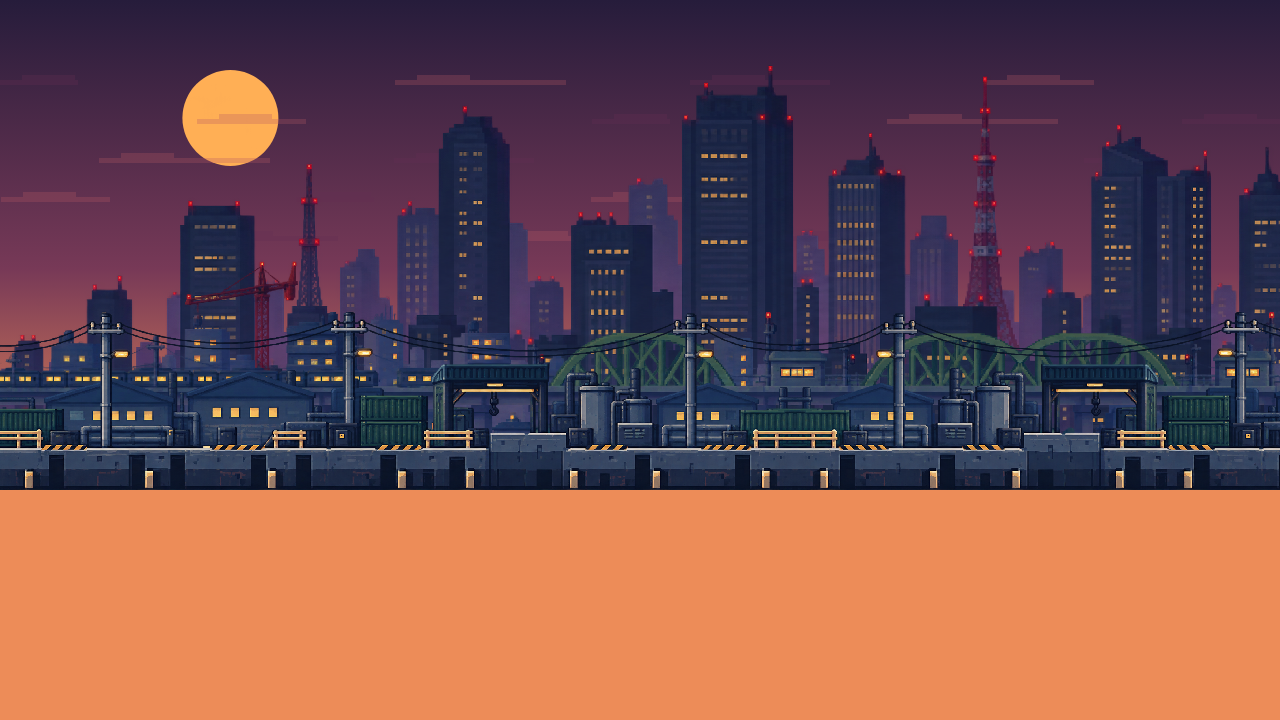
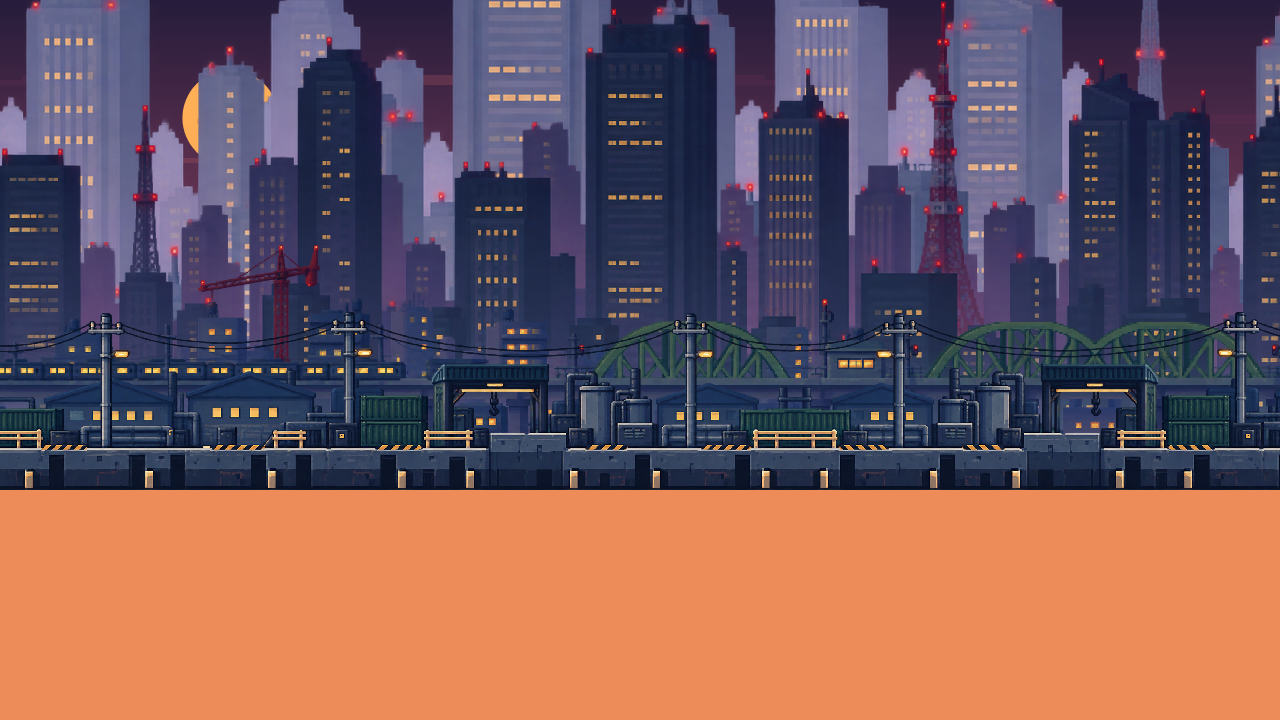
调整画面风格

diff --git a/godzilla-pet/tv/tv-skins.css b/godzilla-pet/tv/tv-skins.css
@@ -1,0 +1,45 @@
+/* Recessed pixel-metal television, based on the supplied neon cabinet. */
+.skin-extra-buttons,.skin-right{display:none}
+.tv-skin-settings{grid-column:1/-1}.tv-skin-options{display:grid;grid-template-columns:repeat(2,minmax(0,1fr));gap:14px}.tv-skin-options button{padding:14px;background:#14213a;border:2px solid #526781;color:#e7e7ef;cursor:pointer;text-align:left}.tv-skin-options button[aria-pressed=true]{border-color:#ff458e;box-shadow:inset 0 0 0 2px #792554}.tv-skin-options b,.tv-skin-options small{display:block;margin-top:8px}.tv-skin-options small{font-size:12px;color:#a8b9cf}.skin-preview{display:block;height:85px;background:#203755;border:5px solid #536c8a;position:relative;box-shadow:inset 0 0 0 3px #101b2e}.skin-preview span{position:absolute;inset:10px 20px;background:linear-gradient(#34224e,#bd496e);border:5px solid #071322}.skin-preview.neon{border-top-color:#f63b8b;border-bottom-color:#eb3783}.skin-preview.neon:after{content:'';position:absolute;width:11px;height:11px;right:1px;top:20px;background:#93a4c1;box-shadow:0 23px #8194b4}.skin-preview.classic{border-color:#7c7586;border-top-color:#dfc16c}
+html[data-tv-skin=neon]:not(.panel-view) .tv-cabinet{position:relative;padding:22px 14px 16px;border:6px solid #0a1120;border-radius:28px;background:linear-gradient(90deg,#29435f,#1e314d 18%,#304764 50%,#1d304c 82%,#35506e);box-shadow:inset 0 5px #718eac,inset 0 12px #456583,inset 7px 0 #54789c,inset -7px 0 #54789c,inset 0 -7px #0e1a2f,0 5px 0 5px #080d19,0 12px 0 4px #17243b;isolation:isolate}
+html[data-tv-skin=neon]:not(.panel-view) .tv-cabinet:before{content:'';position:absolute;left:27%;right:27%;top:-16px;height:12px;border:4px solid #090e1e;background:#f42a85;box-shadow:inset 0 3px #ff82b9,inset 0 -3px #971a5c,0 -4px #3d2044;z-index:1}
+html[data-tv-skin=neon]:not(.panel-view) .tv-cabinet:after{inset:0;border:0;border-radius:20px;background:linear-gradient(#ff328f,#d52e7a) left top/20px 30px no-repeat,linear-gradient(#ff328f,#d52e7a) right top/20px 30px no-repeat,linear-gradient(#ff328f,#d52e7a) left bottom/20px 30px no-repeat,linear-gradient(#ff328f,#d52e7a) right bottom/20px 30px no-repeat;box-shadow:none}
+html[data-tv-skin=neon]:not(.panel-view) .tv-brand{height:17px;min-height:17px;padding:0;position:relative}
+html[data-tv-skin=neon]:not(.panel-view) .brand-mark{display:none}
+html[data-tv-skin=neon]:not(.panel-view) .tv-brand:before{content:'';position:absolute;left:12px;top:-4px;width:58px;height:9px;background:#ff368d;border:3px solid #0a1224;box-shadow:inset 0 2px #ff9ecb,-10px 0 #64e9ff}
+html[data-tv-skin=neon]:not(.panel-view) .tv-body{gap:12px;align-items:stretch}
+html[data-tv-skin=neon]:not(.panel-view) #playerFrame{padding:20px 14px;border:5px solid #071326;border-radius:14px;background:#061020;box-shadow:0 0 0 3px #526f93,0 0 0 7px #14283f,inset 4px 5px #1a304e,inset -4px -5px #203b5b}
+html[data-tv-skin=neon]:not(.panel-view) .broadcast{border-radius:1px;box-shadow:0 0 0 5px #020813}
+html[data-tv-skin=neon]:not(.panel-view) .tv-sidebar{width:94px;flex:0 0 94px;gap:11px;padding:10px 5px 4px;border:0;background:transparent;box-shadow:none;display:flex;flex-direction:column}
+html[data-tv-skin=neon]:not(.panel-view) .side-title,html[data-tv-skin=neon]:not(.panel-view) .tv-knobs{display:none}
+html[data-tv-skin=neon]:not(.panel-view) .side-group{padding:0;margin:0;gap:0;display:block}
+html[data-tv-skin=neon]:not(.panel-view) .chunky,html[data-tv-skin=neon]:not(.panel-view) .skin-extra-buttons button{width:100%;min-height:84px;padding:5px 3px;border:4px solid #050d1a;border-radius:3px;outline:2px solid #577496;background:linear-gradient(120deg,#29466a,#152640);box-shadow:inset 3px 4px #6684a5,inset -3px -4px #101b2d;display:flex;flex-direction:column;gap:3px;align-items:center;justify-content:center;color:#e9e9ee;font-size:19px;font-weight:bold;cursor:pointer}
+html[data-tv-skin=neon]:not(.panel-view) #open-assign{background:linear-gradient(135deg,#b42a69,#712153);outline-color:#ff73b0;box-shadow:inset 3px 4px #f879b3,inset -3px -4px #4f193d}
+html[data-tv-skin=neon]:not(.panel-view) #chan-cycle{outline-color:#59eeff;box-shadow:inset 3px 4px #4aa8bd,inset -3px -4px #102539}
+html[data-tv-skin=neon]:not(.panel-view) .pb-ico,html[data-tv-skin=neon]:not(.panel-view) #chan-cycle>b,html[data-tv-skin=neon]:not(.panel-view) .skin-extra-buttons button>span{font-size:32px;width:auto;height:auto;line-height:1.1}
+html[data-tv-skin=neon]:not(.panel-view) .skin-extra-buttons{display:flex;flex-direction:column;gap:12px;flex:1}
+.skin-speaker-grid{height:60px;min-height:40px;margin-top:auto;background:repeating-linear-gradient(90deg,transparent 0 8px,#29415e 8px 16px),repeating-linear-gradient(#030d20 0 7px,#59718c 7px 9px,#29415e 9px 16px)}
+html[data-tv-skin=neon]:not(.panel-view) .skin-right{display:flex;flex:0 0 88px;align-items:center;flex-direction:column;gap:16px;padding:6px 4px;background:linear-gradient(90deg,#233b59,#344e6e);box-shadow:inset -3px 0 #182e48}
+.skin-right button{-webkit-app-region:no-drag;cursor:pointer}.skin-power-lamp{width:45px;height:14px;border:4px solid #0c1628;background:#ec2680;box-shadow:inset 2px 3px #ff8bbc}.skin-square{width:36px;height:34px;background:#e92b89;border:4px solid #080f20;box-shadow:inset 2px 3px #ff8bbd,inset -3px -3px #941b57;margin:6px 0}
+.skin-dial{width:70px;height:70px;position:relative;border:5px solid #050e1c;border-radius:50%;background:linear-gradient(100deg,#48658a,#8fa6c4 30%,#344f75 44%,#1e3352);box-shadow:inset 3px 3px #adc2d8,4px 0 #12213b,-4px 0 #536f91;margin:0 0 6px}
+.skin-dial:before{content:'';position:absolute;width:8px;height:24px;background:#ff3695;left:26px;top:-7px;box-shadow:0 -8px #71234c}.skin-dial:after{content:'';position:absolute;width:12px;height:35px;border:3px solid #07111f;left:21px;top:23px;background:linear-gradient(90deg,#98acca,#4c6b94);box-shadow:inset 2px 1px #b9c8e0}.skin-dial:active{transform:rotate(18deg)}
+.skin-speaker-slots{width:66px;flex:1;min-height:86px;max-height:128px;background:repeating-linear-gradient(#050e1d 0 8px,#66809d 8px 10px,#243b5a 10px 18px);border-left:3px solid #142943;border-right:3px solid #142943}
+.skin-trio{display:flex;gap:4px;margin-top:auto;padding-bottom:6px}.skin-trio i{height:22px;width:17px;background:#6383a9;border:3px solid #0a1526;box-shadow:inset 2px 2px #acc4dc}.skin-trio i:first-child{background:#ed328b;box-shadow:inset 2px 2px #ff99c3}
+html[data-tv-skin=neon]:not(.panel-view) footer{height:20px;min-height:20px;margin-top:14px;position:relative;background:none!important;border:0;box-shadow:none}
+html[data-tv-skin=neon]:not(.panel-view) footer>span{display:none}
+html[data-tv-skin=neon]:not(.panel-view) footer:before{content:'';position:absolute;left:39%;right:39%;top:0;height:20px;background:linear-gradient(#7890ad,#293e5c);border:4px solid #101b2f;box-shadow:0 3px #061120}
+html[data-tv-skin=neon]:not(.panel-view) footer:after{content:'';position:absolute;left:44%;right:44%;top:7px;height:9px;background:#f2308a;box-shadow:0 0 0 3px #081220,inset 0 2px #ff9ac7}
+html[data-tv-skin=neon]:not(.panel-view) .skin-extra-buttons button:focus-visible,html[data-tv-skin=neon]:not(.panel-view) .skin-right button:focus-visible{outline:3px solid #ffe49a;outline-offset:3px}
+/* Stepped hardware edges follow the pixel silhouette in the reference. */
+html[data-tv-skin=neon]:not(.panel-view) .skin-dial{border-radius:0;clip-path:polygon(26% 0,74% 0,74% 6%,87% 6%,87% 14%,94% 14%,94% 27%,100% 27%,100% 73%,94% 73%,94% 86%,87% 86%,87% 94%,74% 94%,74% 100%,26% 100%,26% 94%,13% 94%,13% 86%,6% 86%,6% 73%,0 73%,0 27%,6% 27%,6% 14%,13% 14%,13% 6%,26% 6%)}
+html[data-tv-skin=neon]:not(.panel-view) .skin-right,html[data-tv-skin=neon]:not(.panel-view) .skin-extra-buttons{-webkit-app-region:no-drag}
+.skin-feet{display:none}html[data-tv-skin=neon]:not(.panel-view) .skin-feet{display:block;position:absolute;bottom:-22px;left:0;right:0;height:18px;pointer-events:none;z-index:-1}.skin-feet:before,.skin-feet:after{content:'';position:absolute;bottom:0;width:82px;height:18px;border:5px solid #080f1c;background:linear-gradient(90deg,#101f34,#284668 48%,#122139);box-shadow:0 3px #11192c}.skin-feet:before{left:5%}.skin-feet:after{right:5%}
+/* Original reference crop: fixed artwork with separate accessible hit regions. */
+html[data-tv-skin=neon]:not(.panel-view) .skin-right{position:relative;display:block;padding:0;gap:0;background:var(--neon-right-controls) center/100% 100% no-repeat;box-shadow:none;image-rendering:pixelated;flex:0 0 88px}
+html[data-tv-skin=neon]:not(.panel-view) .skin-right>.skin-power-lamp,html[data-tv-skin=neon]:not(.panel-view) .skin-right>.skin-speaker-slots,html[data-tv-skin=neon]:not(.panel-view) .skin-right>.skin-trio{display:none}
+html[data-tv-skin=neon]:not(.panel-view) .skin-right>button{position:absolute;display:block;margin:0;padding:0;border:0;border-radius:0;clip-path:none;box-shadow:none;background:transparent;transform:none;width:94%;height:18%;left:3%;top:21%;min-width:0;min-height:0}
+html[data-tv-skin=neon]:not(.panel-view) .skin-right>button:before,html[data-tv-skin=neon]:not(.panel-view) .skin-right>button:after{content:none}
+html[data-tv-skin=neon]:not(.panel-view) .skin-right>.skin-square{left:27%;top:10.6%;width:45%;height:7.5%}
+html[data-tv-skin=neon]:not(.panel-view) .skin-right>.sound-dial{top:41.8%;height:18%}
+html[data-tv-skin=neon]:not(.panel-view) .skin-right>button:hover{background:#9beaff0a}
+html[data-tv-skin=neon]:not(.panel-view) .skin-right>button:active{background:#ff499226}

diff --git a/godzilla-pet/main.js b/godzilla-pet/main.js
@@ -17,7 +17,7 @@ const { app, BrowserWindow, ipcMain, Menu, Tray, screen, shell, dialog, nativeIm
 const path = require('node:path');
 const fs = require('node:fs');
 
-const { TV_DRAG_CSS, TV_TRANSPARENT_CSS, TV_STARTUP_CSS, PANEL_ONLY_CSS, PANEL_READABLE_CSS, TV_SIZES, PANEL_SIZES, zoomFor, panelBounds, panelBox } = require('./tv-config.js');
+const { TV_DRAG_CSS, TV_TRANSPARENT_CSS, TV_STARTUP_CSS, PANEL_ONLY_CSS, PANEL_READABLE_CSS, TV_SIZES, PANEL_SIZES, zoomFor, panelBounds, panelBox, pairedBounds } = require('./tv-config.js');
 const { createStore } = require('./save-store.js');
 const { createLogger } = require('./log-store.js');
 const { createSaveGuard } = require('./save-guard.js');
@@ -220,6 +220,8 @@ function loadState() {
   state = {
     size: pickSize(raw.size && typeof raw.size === 'object' ? raw.size.tv : raw.size),
     panelSize: pickPanelSize(raw.panelSize),
+    tvSkin: raw.tvSkin==='classic'?'classic':'neon',
+    panelCustom: raw.panelCustom&&Number.isFinite(raw.panelCustom.width)&&Number.isFinite(raw.panelCustom.height)?{width:Math.max(480,raw.panelCustom.width),height:Math.max(400,raw.panelCustom.height)}:null,
     pos: pickPos(pos) || pickPos(legacyPos),
     alwaysOnTop: raw.alwaysOnTop !== false,
     hidden: raw.hidden === true,
@@ -322,7 +324,7 @@ function buildWindow() {
     backgroundColor: '#00000000',
     frame: false,
     hasShadow: false,
-    resizable: false,
+    resizable: true,
     maximizable: false,
     minimizable: false,
     fullscreenable: false, // 挡住页面里的"全屏直播"——小电视不该变成全屏
@@ -339,6 +341,8 @@ function buildWindow() {
     },
   });
   win = w;
+  w.setAspectRatio(size.w/size.h);
+  w.setMinimumSize(280,184);
 
   /* 窗口的物理尺寸与缩放系数是"版面看起来对不对"的全部输入，记下来 ——
    * 玩家截图里画面偏了，第一件事就是比对这一行。
@@ -428,7 +432,7 @@ function buildWindow() {
 
   // 面板窗口开着时跟随主电视位置。
   w.on('moved', placePanel);
-  w.on('resize', placePanel);
+  w.on('resize', () => {w.webContents.setZoomFactor(zoomFor(w.getBounds().width));placePanel();});
 
   return w;
 }
@@ -445,7 +449,9 @@ const PANEL_KEYS = new Set(['overview', 'assign', 'talent', 'evo', 'stats', 'ski
  * 优先右侧（面板是电视的"遥控屏"，放右手边顺手）；
  * 右边顶到屏幕边缘就翻到左侧；两边都放不下时退回居中 ——
  * 宁可盖住一点别的，也不能跑到屏幕外。 */
+let placingWindows=false;
 function placePanel() {
+  if(placingWindows)return;
   if (!panelWin || panelWin.isDestroyed() || !win || win.isDestroyed()) return;
   const b = win.getBounds();
   const area = screen.getDisplayMatching(b).workArea;
@@ -455,7 +461,14 @@ function placePanel() {
    * 用当前 bounds 会让"改档位"这一步自相矛盾：窗口尺寸与算位置用的输入是
    * 同一份旧值，结果是档位换了、位置却按旧尺寸算 —— 差出去正好一个面板宽度，
    * 面板会看着像没挪窝，也可能压到屏幕外。档位是唯一真相。 */
-  panelWin.setBounds(panelBounds(b, panelBox(state.panelSize), area));
+  placingWindows=true;
+  try {
+    const pair=pairedBounds(b,state.panelCustom||panelBox(state.panelSize),area);
+    if(JSON.stringify(b)!==JSON.stringify(pair.main))win.setBounds(pair.main);
+    win.webContents.setZoomFactor(zoomFor(pair.main.width));
+    const pb=panelWin.getBounds();
+    if(Object.keys(pair.panel).some(k=>pb[k]!==pair.panel[k]))panelWin.setBounds(pair.panel);
+  } finally { placingWindows=false; }
 }
 
 /* 打开观测面板。
@@ -491,7 +504,7 @@ function openPanel(key = 'overview') {
      * 它的三个注入里也**没有** TV_TRANSPARENT_CSS。 */
     backgroundColor: '#050a15',
     hasShadow: false,
-    resizable: false,
+    resizable: true,
     maximizable: false,
     minimizable: false,
     fullscreenable: false,
@@ -524,6 +537,7 @@ function openPanel(key = 'overview') {
     panelWin.webContents.insertCSS(PANEL_READABLE_CSS).catch(() => {});
   });
   panelWin.once('ready-to-show', () => { if (panelWin) panelWin.show(); });
+  panelWin.on('resized', () => {if(placingWindows||!panelWin)return;const b=panelWin.getBounds();state.panelCustom={width:b.width,height:b.height};saveState();placePanel();});
   panelWin.on('closed', () => { panelWin = null; });
 
   /* 面板窗口也要有右键菜单（理由见 popupControlMenu）。
@@ -591,6 +605,7 @@ function applySize(key) {
 function applyPanelSize(key) {
   if (!PANEL_SIZES[key]) return;
   state.panelSize = key;
+  delete state.panelCustom;
   saveState();
   refreshTray();
   placePanel();
@@ -912,6 +927,13 @@ function registerSaveIPC() {
 /* 控制按钮与面板窗口之间的三条通道。
  * 按钮只喊一声"开"；面板那边负责报"用户点了什么"和"我关了"。 */
 function registerDockIPC() {
+  ipcMain.handle('tv:skin:get',(e)=>isTrustedWindowSender(e.sender,[win,panelWin])?(state.tvSkin||'neon'):'classic');
+  ipcMain.handle('tv:skin:set',(e,skin)=>{
+    if(!isTrustedWindowSender(e.sender,[win,panelWin])||!['classic','neon'].includes(skin))return state.tvSkin||'neon';
+    state.tvSkin=skin;saveState();
+    for(const w of [win,panelWin])if(w&&!w.isDestroyed())w.webContents.send('tv:skin:changed',skin);
+    return skin;
+  });
   ipcMain.on('tv:openPanel', (e, key) => {
     if (e.sender === win?.webContents) openPanel(key);
   });
@@ -1070,6 +1092,8 @@ if (!app.requestSingleInstanceLock()) {
     createWindow();
     // 旧 dock 已移除，功能入口只通过主电视捕获后打开独立副屏。
     createTray();
+    screen.on('display-metrics-changed',placePanel);
+    screen.on('display-removed',placePanel);
   });
 
   // 托盘应用：关掉窗口不等于退出

diff --git a/godzilla-pet/tv/tv-skins.js b/godzilla-pet/tv/tv-skins.js
@@ -1,0 +1,18 @@
+/* Cabinet preferences are separate from creature progress. */
+(()=>{'use strict';
+document.documentElement.style.setProperty('--neon-right-controls',`url("${window.KaijuAssets.TV_SKINS.neon.controls}")`);
+const root=document.documentElement,key='gnn-tv-skin',valid=new Set(['classic','neon']);
+function apply(skin){skin=valid.has(skin)?skin:'neon';root.dataset.tvSkin=skin;document.querySelectorAll('[data-tv-skin-choice]').forEach(b=>b.setAttribute('aria-pressed',String(b.dataset.tvSkinChoice===skin)));}
+async function choose(skin){if(!valid.has(skin))return;try{if(window.__tvSkin){const saved=await window.__tvSkin.set(skin);apply(saved);}else{localStorage.setItem(key,skin);apply(skin);}}catch{document.getElementById('skinStatus').textContent='皮肤保存失败，请重试';}}
+const settings=document.createElement('article');settings.className='tv-skin-settings';settings.innerHTML='<h3>电视外观</h3><div class="tv-skin-options"><button type="button" data-tv-skin-choice="classic" aria-pressed="false"><i class="skin-preview classic"><span></span></i><b>研究所终端</b><small>深蓝 · 金色饰边</small></button><button type="button" data-tv-skin-choice="neon" aria-pressed="false"><i class="skin-preview neon"><span></span></i><b>霓虹特摄</b><small>粉色灯带 · 双旋钮</small></button></div><p id="skinStatus">选择后立即更换，下次打开自动保留。</p>';
+document.getElementById('settingsPanel').prepend(settings);settings.querySelectorAll('button').forEach(b=>b.onclick=()=>choose(b.dataset.tvSkinChoice));
+const sidebar=document.querySelector('.tv-sidebar');
+const extra=document.createElement('div');extra.className='skin-extra-buttons';extra.innerHTML='<button type="button" class="skin-feature" aria-label="切换电视节目"><span>▦</span>特集</button><button type="button" class="skin-settings" aria-label="打开电视外观设置"><span>⚙</span>设置</button><div class="skin-speaker-grid" aria-hidden="true"></div>';sidebar.append(extra);
+const openSettings=()=>window.__tvHost?window.__tvHost.openPanel('settings'):window.__growth.open('settings');
+extra.querySelector('.skin-settings').onclick=openSettings;extra.querySelector('.skin-feature').onclick=()=>document.getElementById('chan-cycle').click();
+const controls=document.createElement('aside');controls.className='skin-right';controls.setAttribute('aria-label','电视旋钮');controls.innerHTML='<div class="skin-power-lamp" aria-hidden="true"></div><button class="skin-square" aria-label="电视外观设置"></button><button class="skin-dial" aria-label="转台" title="转台"></button><button class="skin-dial sound-dial" aria-label="切换现场声音" title="切换现场声音"></button><div class="skin-speaker-slots" aria-hidden="true"></div><div class="skin-trio" aria-hidden="true"><i></i><i></i><i></i></div>';
+document.querySelector('.tv-body').append(controls);controls.querySelector('.skin-square').onclick=openSettings;controls.querySelector('.skin-dial').onclick=()=>document.getElementById('chan-cycle').click();controls.querySelector('.sound-dial').onclick=()=>document.getElementById('sound').click();
+if(window.__tvSkin){window.__tvSkin.subscribe(apply);window.__tvSkin.get().then(apply).catch(()=>apply('neon'));}else{try{apply(localStorage.getItem(key)||'neon');}catch{apply('neon');}window.addEventListener('storage',e=>{if(e.key===key)apply(e.newValue);});}
+const feet=document.createElement('div');feet.className='skin-feet';feet.setAttribute('aria-hidden','true');document.querySelector('.tv-cabinet').append(feet);
+window.TVSkins={choose,apply};
+})();

diff --git a/godzilla-pet/tv/index.html b/godzilla-pet/tv/index.html
@@ -1,4 +1,4 @@
-<!doctype html><html lang="zh-CN"><head><meta charset="utf-8"><meta name="viewport" content="width=device-width,initial-scale=1"><title>GNN · 巨兽都市 / PIXEL LIVE</title><link rel="stylesheet" href="style.css"><link rel="stylesheet" href="lab.css"></head><body>
+<!doctype html><html lang="zh-CN"><head><meta charset="utf-8"><meta name="viewport" content="width=device-width,initial-scale=1"><title>GNN · 巨兽都市 / PIXEL LIVE</title><link rel="stylesheet" href="style.css"><link rel="stylesheet" href="lab.css"><link rel="stylesheet" href="tv-skins.css"></head><body>
 <!-- 复古老式电视柜：柜体可拖（见 tv-config TV_DRAG_CSS），
      左侧控制栏整块不可拖（它是操作区，能拖就点不准），侧栏按钮与观测面板可点 -->
 <div class="shell tv-cabinet"><header class="tv-brand"><div class="brand-mark"><b>GNN</b><span>24</span></div></header>
@@ -54,4 +54,4 @@
      见 tv/style.css 里 footer 规则上面的说明。 -->
 <footer></footer></div>
 <!-- 资产层加载顺序：索引（路径）→ 骨骼数据（结构）→ 形态（样式/颜色/大小）→ 装配 → 渲染 -->
-<script src="growth.js"></script><script src="progression.js"></script><script src="assets/asset-index.js"></script><script src="assets/monsters/godzilla/rig.data.js"></script><script src="appearance.js"></script><script src="rig.js"></script><script src="assets/enemies/army/sentinel/rig.data.js"></script><script src="sentinel.js"></script><script src="parallax.js"></script><script src="game.js"></script><script src="lab.js"></script></body></html>
+<script src="growth.js"></script><script src="progression.js"></script><script src="assets/asset-index.js"></script><script src="assets/monsters/godzilla/rig.data.js"></script><script src="appearance.js"></script><script src="rig.js"></script><script src="assets/enemies/army/sentinel/rig.data.js"></script><script src="sentinel.js"></script><script src="parallax.js"></script><script src="game.js"></script><script src="lab.js"></script><script src="tv-skins.js"></script></body></html>

diff --git a/godzilla-pet/tv/parallax.js b/godzilla-pet/tv/parallax.js
@@ -1,7 +1,7 @@
-/* Three reusable transparent city strips; no growing scene-object list. */
+/* Four reusable transparent city strips; no growing scene-object list. */
 (function(root,factory){const api=factory();if(typeof module==='object'&&module.exports)module.exports=api;else root.HarborParallax=api;})(typeof window!=='undefined'?window:globalThis,function(){
  'use strict';
- const layers=[{key:'far',speed:.18,height:470},{key:'mid',speed:.42,height:340},{key:'near',speed:.72,height:265}];
+ const layers=[{key:'haze',speed:.10,height:736,offset:340},{key:'far',speed:.18,height:555,offset:220},{key:'mid',speed:.42,height:365},{key:'near',speed:.72,height:265}];
  function tiles(camera,speed,width,viewport){
   const offset=((camera*speed)%(width*2)+width*2)%(width*2),first=Math.floor(offset/width),result=[];
   for(let i=first,x=i*width-offset;x<viewport;i++,x+=width)result.push({x,flip:i%2===1});
@@ -16,7 +16,13 @@
    const height=layer.height,width=Math.round(height*img.naturalWidth/img.naturalHeight);
    // Alternating forward/back tiles meet the identical source edge at every join.
    // Camera scale animates as the creature grows; it must not alter travel distance.
-   for(const tile of tiles(camera,layer.speed,width,w)){ctx.save();ctx.translate(tile.x+(tile.flip?width:0),baseline-height);ctx.scale(tile.flip?-1:1,1);ctx.drawImage(img,0,0,width,height+2);ctx.restore();}
+   for(const tile of tiles(camera+(layer.offset||0)/layer.speed,layer.speed,width,w)){ctx.save();ctx.translate(tile.x+(tile.flip?width:0),baseline-height);ctx.scale(tile.flip?-1:1,1);ctx.drawImage(img,0,0,width,height+2);ctx.restore();}
+   if(layer.key==='far'){
+    // Haze sits in front of the towers, behind the bridge and warehouses.
+    const top=Math.max(0,baseline-240),glow=ctx.createLinearGradient(0,top,0,baseline);
+    glow.addColorStop(0,'#b7d4ff00');glow.addColorStop(.55,'#a8c8fa18');glow.addColorStop(1,'#b6dbff70');
+    ctx.fillStyle=glow;ctx.fillRect(0,top,w,baseline-top);
+   }
   }
   ctx.restore();
  }

diff --git a/godzilla-pet/tv-config.js b/godzilla-pet/tv-config.js
@@ -57,9 +57,9 @@ const TV_SIZES = {
  * 默认 1280×820；小工作区由 panelBounds 限制到屏幕内并使用响应式布局。
  * 三档都保持横向构图，电视尺寸不受影响。 */
 const PANEL_SIZES = {
-  compact: { w: 960, h: 720, label: '紧凑' },
-  standard: { w: 1280, h: 820, label: '标准' },
-  tall: { w: 1560, h: 920, label: '宽屏' },
+  compact: { w: 720, h: 560, label: '紧凑' },
+  standard: { w: 900, h: 660, label: '标准' },
+  tall: { w: 1120, h: 780, label: '宽屏' },
 };
 
 /* 原版是给浏览器写的，不认得 frameless 窗口——没有标题栏就没有拖动把手。
@@ -260,6 +260,14 @@ function panelBounds(main, size, area, gap = 10) {
   }
   return { x: Math.round(x), y: Math.round(y), width, height };
 }
+function pairedBounds(main, desired, area, gap = 12) {
+  const margin=8, aw=Math.max(1,area.width-margin*2), ah=Math.max(1,area.height-margin*2);
+  const width=Math.min(main.width,Math.max(240,aw*.42)),height=Math.min(ah,Math.round(width*main.height/main.width));
+  const pw=Math.min(desired.width,aw-width-gap),ph=Math.min(desired.height,ah);
+  const x=Math.round(Math.max(area.x+margin,Math.min(main.x,area.x+area.width-margin-width-pw-gap)));
+  const y=Math.round(Math.max(area.y+margin,Math.min(main.y,area.y+area.height-margin-Math.max(height,ph))));
+  return {main:{x,y,width:Math.round(width),height},panel:{x:Math.round(x+width+gap),y,width:Math.max(1,Math.floor(pw)),height:ph}};
+}
 const zoomFor = (w) => w / VIEWPORT.w;
 
 /* 面板档位 → panelBounds 吃的窗口尺寸。
@@ -276,5 +284,5 @@ const panelBox = (key) => {
 module.exports = {
   VIEWPORT, TV_SIZES, PANEL_SIZES,
   TV_DRAG_CSS, TV_TRANSPARENT_CSS, TV_STARTUP_CSS, PANEL_ONLY_CSS, PANEL_READABLE_CSS,
-  zoomFor, panelBounds, panelBox,
+  zoomFor, panelBounds, panelBox, pairedBounds,
 };

diff --git a/godzilla-pet/tv/assets/asset-index.js b/godzilla-pet/tv/assets/asset-index.js
@@ -19,7 +19,8 @@
   const MONSTER_DIR = 'monsters';
   const ENEMY_DIR = 'enemies';
   const BUILDING_DIR = 'buildings';
-  const LAB_ART = {harbor:'assets/lab/harbor.png',road:'assets/lab/harbor-road.png',far:'assets/lab/harbor-far.png',mid:'assets/lab/harbor-mid.png',near:'assets/lab/harbor-near.png',platform:'assets/lab/kaiju-platform.png',mutation:'assets/lab/mutation-chamber.png',talent_icons:'assets/lab/talent-icons.png'};
+  const TV_SKINS = {neon:{controls:'assets/skins/neon/right-controls.png'}};
+  const LAB_ART = {harbor:'assets/lab/harbor.png',road:'assets/lab/harbor-road.png',haze:'assets/lab/harbor-haze.png',far:'assets/lab/harbor-far.png',mid:'assets/lab/harbor-mid.png',near:'assets/lab/harbor-near.png',platform:'assets/lab/kaiju-platform.png',mutation:'assets/lab/mutation-chamber.png',talent_icons:'assets/lab/talent-icons.png'};
 
   /** 骨骼槽：与 rig.js 的 12 个变换节点一一对应。
    *  这些名字同时就是 parts/ 下的目录名，改名等于改骨骼契约，
@@ -149,7 +150,7 @@
   };
 
   const api = {
-    ROOT, MONSTER_DIR, ENEMY_DIR, BUILDING_DIR, LAB_ART,
+    ROOT, MONSTER_DIR, ENEMY_DIR, BUILDING_DIR, LAB_ART, TV_SKINS,
     SLOTS, DECOR_SLOTS, MONSTERS, ENEMY_FACTIONS, ENEMY_UNITS, BUILDING_KINDS,
     dir, file,
     monster: (id) => MONSTERS[id] || null,

diff --git a/godzilla-pet/tv/game.js b/godzilla-pet/tv/game.js
@@ -36,7 +36,7 @@ const FX_LOCK_LEVEL=P.EPOCHS[1].min;
 const FX_SCALE_MAX=Growth.bodyScale(FX_LOCK_LEVEL,null,null,P.EPOCHS);
 const sentinelRenderer=new window.SentinelBoss.Renderer(Image);
 const harborArt=new Image();harborArt.src=ASSETS.LAB_ART.harbor;
-const harborLayers=Object.fromEntries(['far','mid','near'].map(key=>{const img=new Image();img.src=ASSETS.LAB_ART[key];return [key,img];}));
+const harborLayers=Object.fromEntries(['haze','far','mid','near'].map(key=>{const img=new Image();img.src=ASSETS.LAB_ART[key];return [key,img];}));
 const roadArt=new Image();roadArt.src=ASSETS.LAB_ART.road;
 let storageOK=true,raw=null;try{raw=JSON.parse(SAVEIO.getItem(SAVE)||'null');}catch{storageOK=false;}
 const pageSearch=window.location?.search||'';

diff --git a/godzilla-pet/tv-preload.js b/godzilla-pet/tv-preload.js
@@ -173,3 +173,9 @@ function guardMainPanel() {
 }
 if (document.readyState === 'loading') document.addEventListener('DOMContentLoaded', guardMainPanel);
 else guardMainPanel();
+
+contextBridge.exposeInMainWorld('__tvSkin', {
+ get:()=>ipcRenderer.invoke('tv:skin:get'),
+ set:(skin)=>ipcRenderer.invoke('tv:skin:set',skin),
+ subscribe:(callback)=>ipcRenderer.on('tv:skin:changed',(_event,skin)=>callback(skin)),
+});

diff --git a/godzilla-pet/panel-preload.js b/godzilla-pet/panel-preload.js
@@ -79,3 +79,9 @@ ipcRenderer.on('panel:sync', (_e, payload) => {
   mem = payload;
   growth?.sync(payload);
 });
+
+contextBridge.exposeInMainWorld('__tvSkin', {
+ get:()=>ipcRenderer.invoke('tv:skin:get'),
+ set:(skin)=>ipcRenderer.invoke('tv:skin:set',skin),
+ subscribe:(callback)=>ipcRenderer.on('tv:skin:changed',(_event,skin)=>callback(skin)),
+});

diff --git a/godzilla-pet/tv/ART-DIRECTION.md b/godzilla-pet/tv/ART-DIRECTION.md
@@ -99,3 +99,14 @@
 
 ### 循环场景抖动修复（2026-09-27）
 三层横向位移直接使用世界镜头，不再乘动态 `sceneZoom`；镜头跟随在同区域推进中不允许负向移动。道路图片与三层背景一样按正反幅交替拼接，消除单幅不匹配的循环边缘。添加背景巡航直升机，仅用于画面呈现；既有可攻击直升机仍按原有生成与战斗规则运行。验证：原生开场及巡航帧截图、位移测试和全量测试。
+
+### 加密楼群（2026-09-27）
+新增 `harbor-haze.png` 浅紫灰高楼透明层，位于深色楼群后方，独立视差速度 0.10。浅层高 620、深层高 555，中景高 365 逻辑像素；两组高楼横向错位，形成更密集且有明暗分层的城市。沿用固定世界位移与正反循环，不随动态缩放重算滚动相位。原生画布在镜头 0 / 800 / 2000 / 5000 / 10000 采样，天空空隙占整个游戏画布约 7.7%–9.6%。170 项测试通过，四层透明通道和实际电视画面检查通过。
+
+### 桥后渐变光（2026-09-27）
+浅紫灰高楼层高度由 620 提到 680 逻辑像素，进一步压近。深色高楼绘制完后、铁路桥中景绘制前，叠加 240 像素高的淡蓝色向上消散渐变光雾；道路、战斗单位及近景都不会被这层光雾涂亮。独立原生电视截图确认层级与桥梁遮挡，五处镜头位置的天空透明比例约 4.9%–6.9%。
+
+### 可选电视皮肤（2026-09-27）
+新增 `tv-skins.css` / `tv-skins.js`，提供原研究所终端与参考图霓虹特摄机壳。霓虹款包含深蓝凹槽边框、粉色灯条、四枚侧键、双旋钮及音箱格栅。设置 → 电视外观可即时切换；偏好独立于游戏存档，由宿主窗口状态保存，两个窗口通过受信 IPC 同步。浏览器版本以独立 localStorage 键保存。隔离原生验证脚本 `build/skin-showcase.cjs` 覆盖跨窗切换、非法值拒绝、加载恢复、旋钮功能与边界。
+
+右侧控制板改用用户原图裁切贴图。旋钮、方形键、指示灯、扬声器、底部三键共同保留原像素细节；透明 HTML 按钮承担设置、转台、声音操作，纹理不再由 CSS 模拟。

diff --git a/godzilla-pet/docs/资产规范.md b/godzilla-pet/docs/资产规范.md
@@ -248,3 +248,7 @@ env -u ELECTRON_RUN_AS_NODE ./node_modules/.bin/electron build/tv-shot.cjs \
 
 ### 港区视差图层
 `tv/assets/lab/harbor-far.png`（密集高楼）、`harbor-mid.png`（铁路／住宅）、`harbor-near.png`（仓库／管线）为参考港区画风生成的透明独立图层，统一登记在 `LAB_ART`。运行时采用正反双幅循环；道路仍由 `harbor-road.png` 单独承载。禁止把三层重新合并为整张固定背景。隔离验证脚本：`build/parallax-showcase.cjs`。
+
+新增 `tv/assets/lab/harbor-haze.png`：2172×724 RGBA，imagegen 根据原远景生成的较浅、较亮密集高楼；登记为 `LAB_ART.haze`，位于原三层城市之后，构成四层独立视差。
+
+霓虹电视右侧控制板：`assets/skins/neon/right-controls.png`，登记为 `TV_SKINS.neon.controls`。直接从用户原图 `docs/references/neon-tv-reference.png` 的 (1270,96)–(1416,924) 裁出，尺寸 146×828，不重绘、不改色。作为整块控制板贴图保留原图间距，三个可操作按钮使用独立百分比点击区域。
